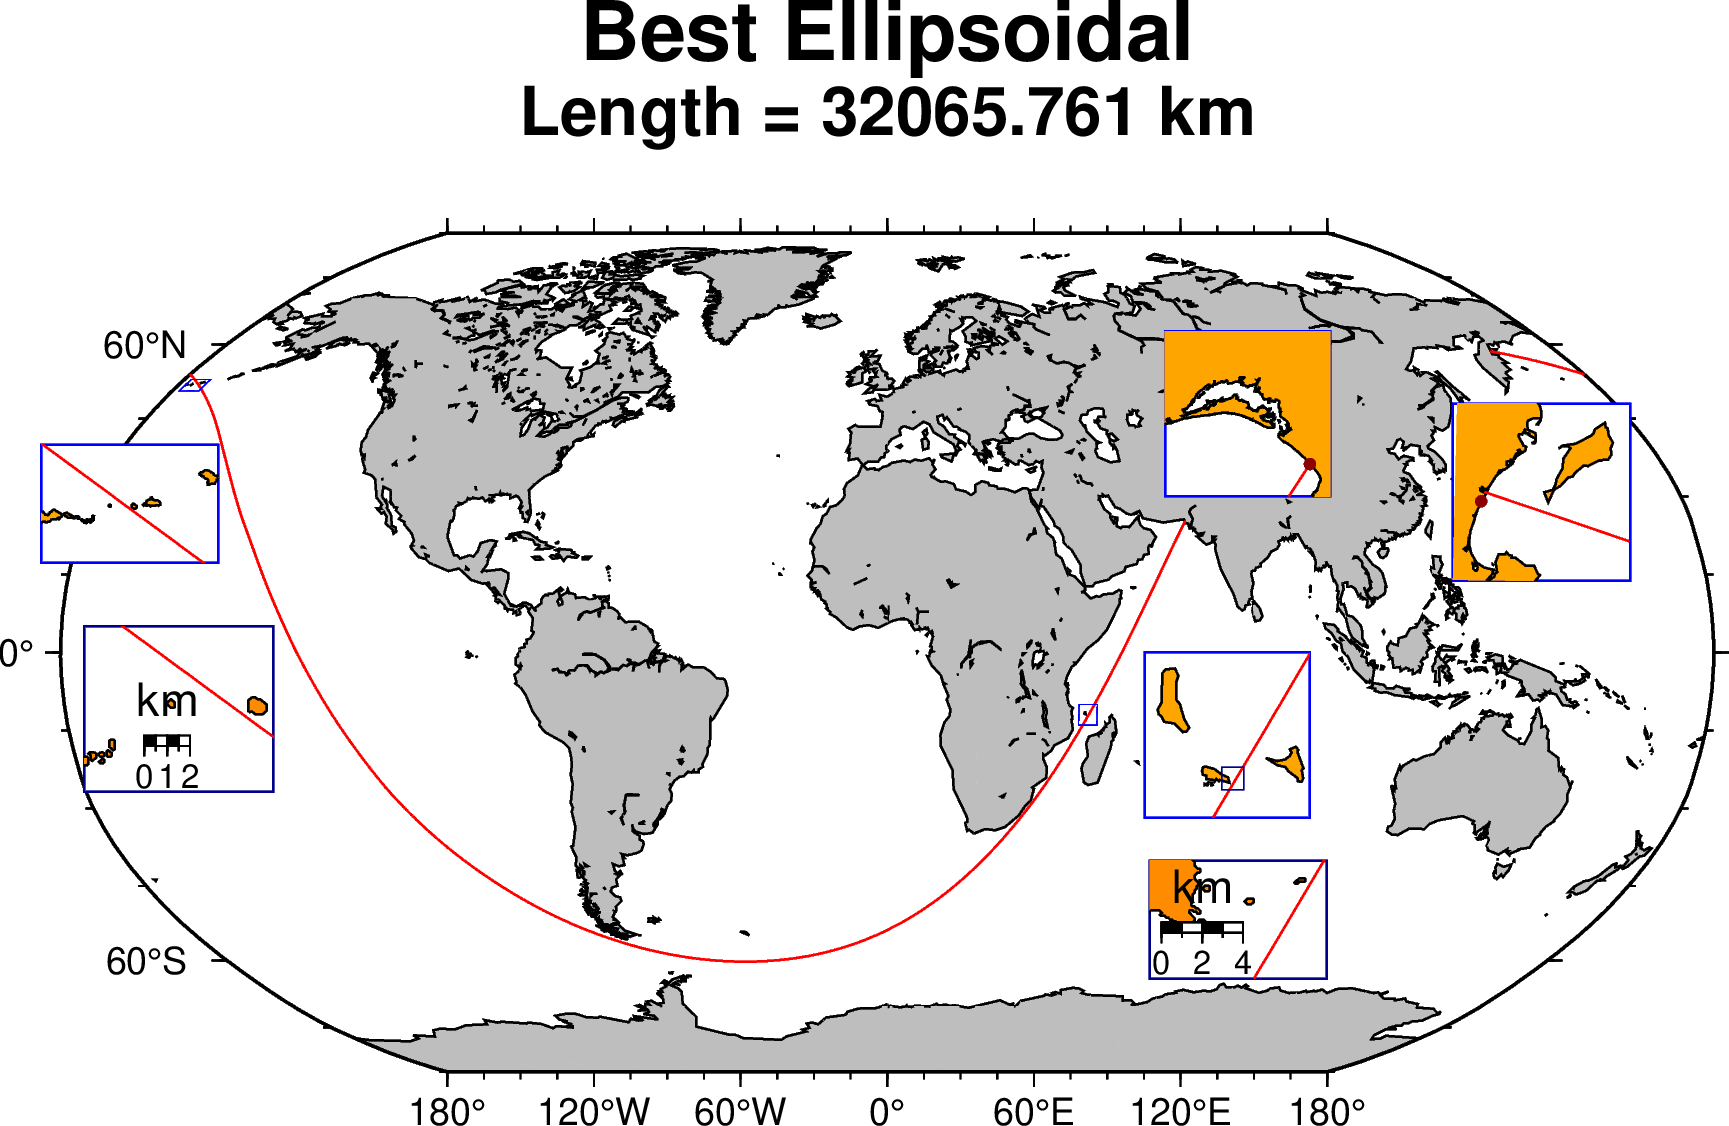
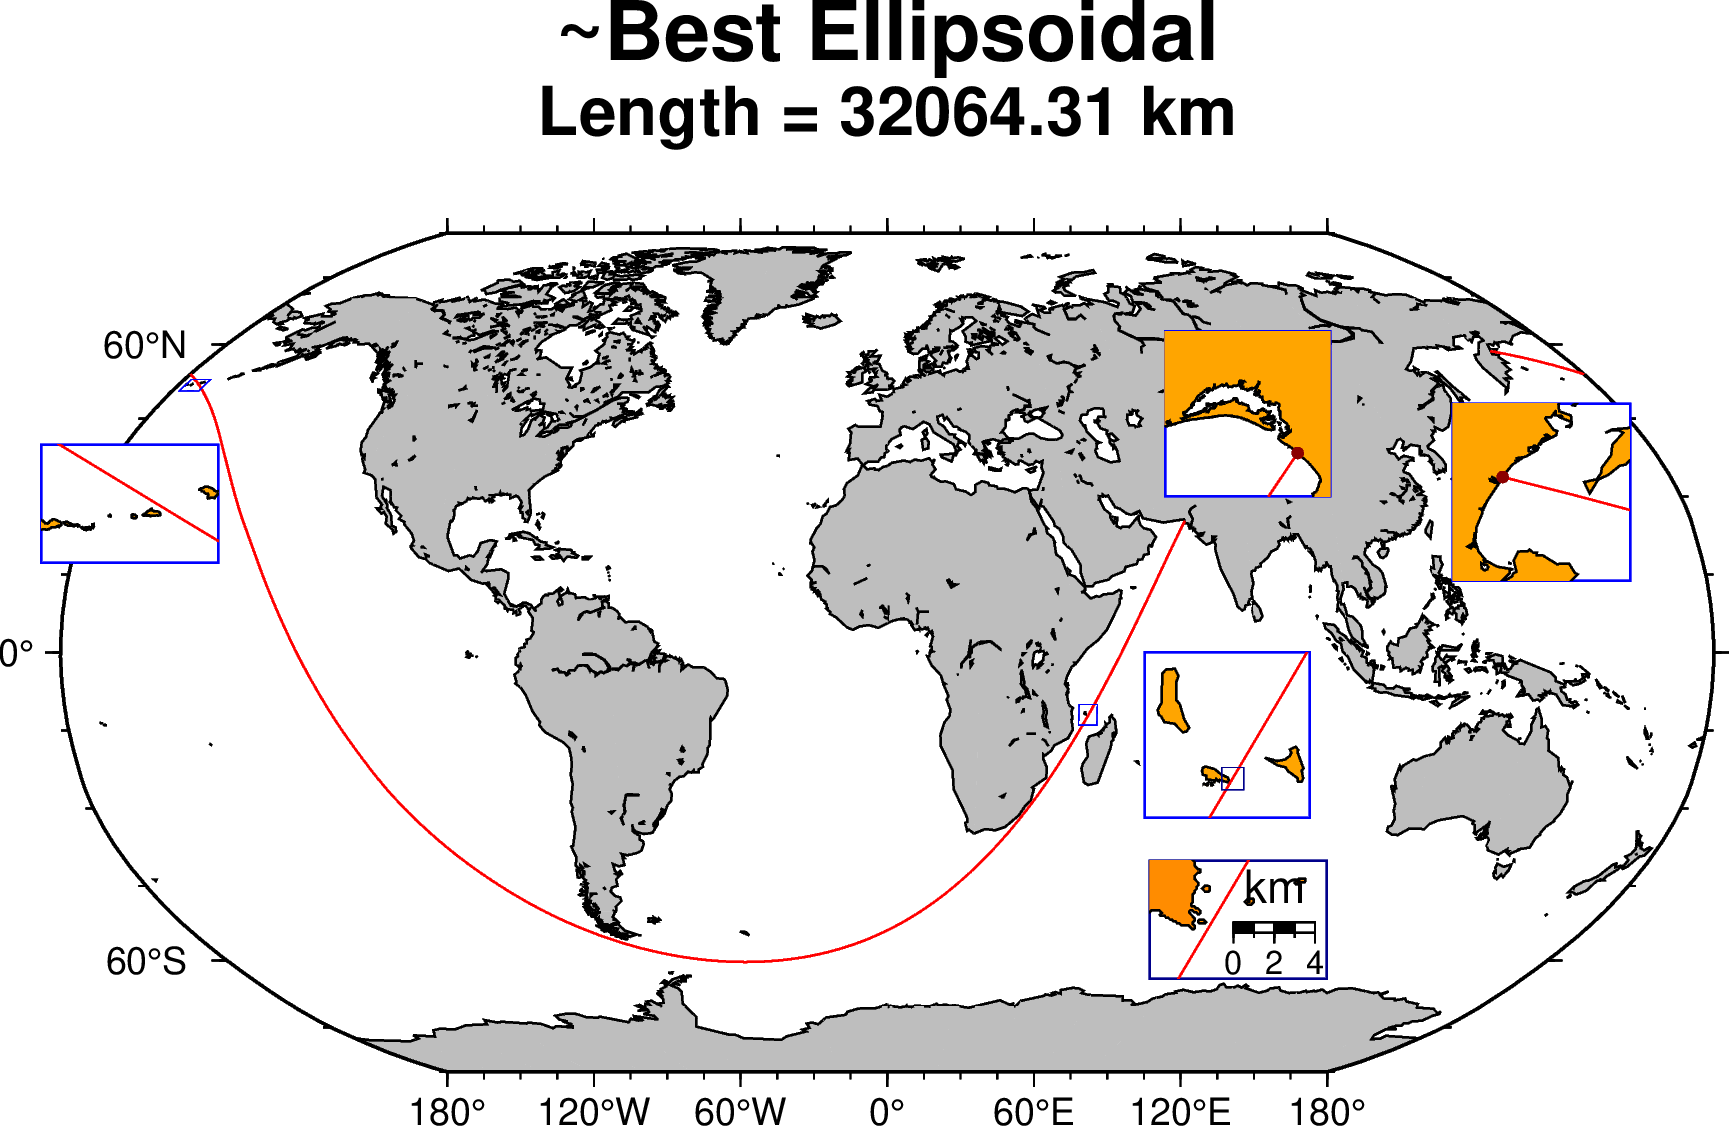
Correct the longest sail example after the improvements in geodetic_long()

diff --git a/tutorials/longest_sail/longestsail.md b/tutorials/longest_sail/longestsail.md
@@ -3,7 +3,9 @@
 GMT uses the \myreflink{coast} utility to access a version of the GSHHG data specially formatted for GMT.
 The GSHHG data have strengths and weaknesses. It is global and open source, but is based on relatively
 old datasets and hence may not be accurate enough for very large-scale mapping projects. For more information
-about the coastlines data-set see the [GSHHG repository](https://github.com/GenericMappingTools/gshhg-gmt)
+about the coastlines data-set see the [GSHHG repository](https://github.com/GenericMappingTools/gshhg-gmt).
+We are referring this because the GMT coastlines were used to refine the solutions for the departing and
+arrival points of the longest sail.
 
 Quoting [Rohan Chabukswar and Kushal Mukherjee](https://arxiv.org/pdf/1804.07389.pdf)
 
@@ -22,8 +24,8 @@ and end points actually fall on land. Moving them to the intersection of the gre
 coastlines data-set ((66:39:49 E; 25:16:45 N), (162:20:44 E; 58:35:50 N)) leads to slightly shorter path of
 32,083.3 km. Here we used authalic sphere computed from the WGS84 ellipsoid. The second effect, that of the
 spherical *vs* ellipsoidal approximation, is what we will see here. We will show that the proposed locations
-wont work for an ellipsoidal Earth but that we can find one geodesic line in the *vicinity* of the spherical
-solution, though not mathematically prove it is the longest possible geodesic.
+still works for an ellipsoidal Earth but that we can find a slightly longer geodesic line in the *vicinity*
+of the spherical solution, though not mathematically prove it is the longest possible geodesic.
 
 ## Sherical (great circle path)
 
@@ -41,34 +43,26 @@ PakKam = false		# If all 3 are false ==> KamPak	(compute geodesics with original
 
 # Set titles, fig names and regions for the insets depending on the selected solution.
 if (best)
-	ptPak = [66.70161290 25.24294355];	ptCam = [162.20161290 58.45766129];
-	x = geodesic(ptCam, ptPak, longest=true, step=10000);
-	title, fname = "Best Ellipsoidal", "Longest_best_ellipse.png"
+	ptPak = [66.6424435 25.2972055];		ptKam = [162.34545111 58.59724279];		# New ~Best [66:38:32.8 25:17:49.9]
+	x = geodesic(ptKam, ptPak, longest=true, step=10000);
+	title, fname = "~Best Ellipsoidal", "Longest_best_ellipse.png"
 	subtit = "Length = $(round(parse(Float64, x.attrib["Length"]) / 1000, digits=3)) km"
 else
-	ptPak = [66.66366872 25.27917480];		ptCam = [162.34545111 58.59724279];		# Intersect Orig with shoreline
+	ptPak = [66.66366872 25.27917480];		ptKam = [162.34545111 58.59724279];		# Intersect Orig with shoreline
 	if (sphere)
-		x = geodesic(ptPak, ptCam, longest=true, step=10000, proj="+proj=lonlat +a=6371007 +b=6371007");
+		x = geodesic(ptPak, ptKam, longest=true, step=10000, proj="+proj=lonlat +a=6371007 +b=6371007");
 		title, fname = "Spherical", "Longest_sphere"
 		subtit = "Length = $(round(parse(Float64, x.attrib["Length"]) / 1000, digits=3)) km"
 	else
-		if (PakKam)
-			x = geodesic(ptPak, ptCam, longest=true, step=10000);
-			title, fname = "Ellipsoidal Pak->Kam", "Longest_ellipse_PakKam.png"
-		else
-			x = geodesic(ptCam, ptPak, longest=true, step=10000);
-			title, fname = "Ellipsoidal Kam->Pak", "Longest_ellipse_KamPak.png"
-		end
+		x = geodesic(ptPak, ptKam, longest=true, step=10000);
+		title, fname = "Ellipsoidal Pak->Kam", "Longest_ellipse_PakKam.png"
+		subtit = "Length = $(round(parse(Float64, x.attrib["Length"]) / 1000, digits=3)) km"
 	end
 end
 
 # Make the plot
 gmtbegin(fname)
-	if (best || sphere)
-		coast(region=:global, proj=:guess, shore=0.5, land=:gray, frame=:auto, area=(500,1), title=title, subtitle=subtit)
-	else
-		coast(region=:global, proj=:guess, shore=0.5, land=:gray, frame=:auto, area=(500,1), title=title)
-	end
+	coast(region=:global, proj=:guess, shore=0.5, land=:gray, frame=:auto, area=(500,1), title=title, subtitle=subtit)
 	plot(x, lw=0.5, lc=:red)
 
 	# Comoros
@@ -80,19 +74,18 @@ gmtbegin(fname)
 			plot([43.8 -12.45 44.00 -12.25], marker="r+s", ml=(0.2, :darkblue))    # A blue rectangle for 2nd zoom
 		end
 	inset(:end)
-	if (best || sphere)
-		inset(inset_box=(map=true, anchor=(62,-40), justify=:TL, width=(1.5,1.0)), box=(fill=:white, pen=(0.5, :darkblue)))
-			coast(region=[43.850, 43.93, -12.41, -12.32], frame=:none, shore=0.5, land=:darkorange, figsize=1.5)
-			plot(x, lw=0.5, lc=:red)
-			basemap(map_scale=(anchor=:BL, scale_at_lat=-12.35, length="4k", label=true, fancy=true, offset=(0.1,0.3)),)
-		inset(:end)
-	end
+	inset(inset_box=(map=true, anchor=(62,-40), justify=:TL, width=(1.5,1.0)), box=(fill=:white, pen=(0.5, :darkblue)))
+		coast(region=[43.850, 43.93, -12.41, -12.32], frame=:none, shore=0.5, land=:darkorange, figsize=1.5)
+		plot(x, lw=0.5, lc=:red)
+		just = (PakKam) ? :BL : :BR
+		basemap(map_scale=(anchor=just, scale_at_lat=-12.35, length="4k", label=true, fancy=true, offset=(0.1,0.3)),)
+	inset(:end)
 
 	# Kamchatka
 	inset(inset_box=(map=true, anchor=(140,48), justify=:TL, width=1.5), box=(fill=:white, pen=(0.5, :blue)))
-		coast(region=[161.7, 165.0, 57.67, 59.5], frame=:none, shore=0.5, land=:orange, figsize=1.5)
+		coast(region=[161.7, 164.0, 57.67, 59.5], frame=:none, shore=0.5, land=:orange, figsize=1.5)
 		plot(x, lw=0.5, lc=:red)
-		plot(ptCam, marker=:circ, ms=0.1, fill=:darkred)	# Orig pt
+		plot(ptKam, marker=:circ, ms=0.1, fill=:darkred)	# Orig pt
 	inset(:end)
 
 	# Aleutian
@@ -102,7 +95,7 @@ gmtbegin(fname)
 		coast(region=R, frame=:none, shore=0.5, res=:full, land=:orange, figsize=1.5)
 		plot(x, lw=0.5, lc=:red)
 	inset(:end)
-	if (best || sphere)
+	if (false && best || sphere)
 		inset(inset_box=(map=true, anchor=(-175,5), justify=:TL, width=(1.6,1.4)), box=(fill=:white, pen=(0.5, :darkblue)))
 			R = (best) ? [-175.6, -175.48, 51.945, 52.05] : [-175.60, -175.538, 51.950, 52.07] 
 			coast(region=R, frame=:none, shore=0.5, res=:full, land=:darkorange, figsize=1.6)
@@ -129,31 +122,30 @@ gmtend(:show)
 ## Ellipsoidal (geodesics)
 
 Now let's see how it behaves if we compute the path along the shortest distance on an ellipsoid (a geodesic line),
-the WGS84 ellipsoid in this case. Good, but we start to have problems. The issue is that a geodesic, except for
+the WGS84 ellipsoid in this case. Good, but the case not so simple as a geodesic, except for
 along a meridian or the equator, is not a closed line. That means, following a geodesic that starts at a certain
 azimuth different from +/-90 or 0 degrees we don't return to starting point, see this
-[Wiki page](https://en.wikipedia.org/wiki/Geodesics_on_an_ellipsoid)
+[Wiki page](https://en.wikipedia.org/wiki/Geodesics_on_an_ellipsoid). So this means we cannot simply compute
+the *other way around* as the complement of the shortest path between **A** and **B** as that is a too crude
+aproximation. For more details on this problem see this
+[discussion](https://forum.generic-mapping-tools.org/t/oblique-mercator-for-straight-line-between-points-as-maps-equator/3223/11)
+in the GMT forum that shows also the history on how this problem was *solved*. But the take of this is that one can obtain
+a geodesic line that very closely (at the decimeter level) can go from **A** to **B** and be a reversible solution. That is,
+if we swapp **A** and **B** we get the same solution.
 
-Next two figures show the geodesics for the case where the starting point is in Pakistan and end in Kamchatka,
-and the inverse. Note that because we are interested in the longest part of the geodesic line, the firts case
-actually starts in Kamchatka and ends in Pakistan but we computed the azimuth of the geodesic from Pakistan to
-Kamchatka at its destination (if you are confused, see the second figure of the wiki page linked above).
-
-As we can see, both of those two lines hit an island in the Aleutian archipelago. So, the spherical solution does
-not stand on the real Earth. We can also see in the insets over the Pakistan and Kamchatka locations that the
-starting, represented by the red dot, and arrival points do not coincide.
-
+Next figure shows that the proposed geocentric solution still holds for the ellipsoidal case. Well, the figure doesn't
+show that because we can see an interruption due to a hit in one of the Comoro's islet. However, this is not really
+true because the GMT shorelines at this levels show the effect of having been digitized from last century charts and are off
+often off by ~250-300 m. And in fact, checking with GoogleEarth we would see that the path manages to go through those
+rocks without hitting them.
 
 \figenv{The caption}{/tutorials/longest_sail/Longest_ellipse_PakKam.png}{width:90%;}
 
-\figenv{The caption}{/tutorials/longest_sail/Longest_ellipse_KamPak.png}{width:90%;}
+## A slightly longer geodesic solution
 
-## A working geodesics solution
-
-With some trial and error it was possible to find a geodesic line that manages to pass through the tinny passages
-and do all the circuit. That line starts in Pakistan, at coordinates (66:42:5.8 E; 25:14:34.6 N) with the
-azimuth computed from the Kamchatka location at (162:12:5.8 E; 58:27:27.6 N) to Pakistan. Note that, although
-not shown, reverting the order of these two points would not have worked. The total length of this line is
-~32,065.8 km
+Although the solution proposed by Chabukswar and Mukherjee still holds on the ellipsoidal Earth, it is possible
+to find a nearby alternative that is slightly longer. With trial an error it was possible to find one that
+adds ~0.5 km to the that path. That solution, that starts at [66:38:32.8 E; 25:17:49.9 N] and ends at the same
+Kamachatka point of [162:20:44 E; 58:35:50 N] is shown in the figure below and has a length of ~32,064.31 km.
 
 \figenv{The caption}{/tutorials/longest_sail/Longest_best_ellipse.png}{width:90%;}
